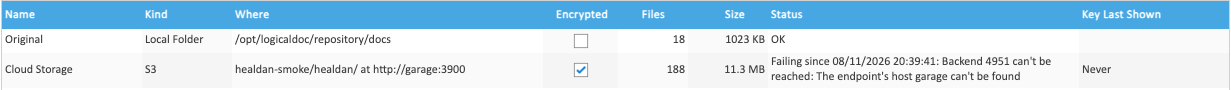
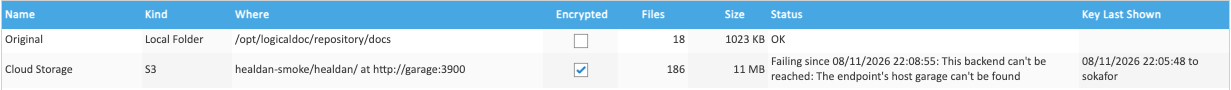
Docs: PR C's final review: local outages, Wasabi's sources, restic's owners, two pictures
- When a Backend Fails: a local folder that can't be read is an outage,
  as S3's is, with saves refused and reads failing at once with the
  outage message, which for a local backend doesn't say cloud.
- Cloud Storage: incomplete uploads cite Wasabi's Lifecycle page and its
  page on incomplete multipart uploads. The 7-day rule tidies the
  bucket; the plan's minimum storage duration still applies to the
  parts.
- Backup and Restore: restic, as root, restores the owners it recorded,
  so on another server the restored files may not be yours: chown them.
- Encryption and Recovery Keys: the add's showing is recorded too, and
  Test's key-file message is quoted as the tab now gives it, with no id.
- Tests: FakeS3 holds a put of one key until a test lets it go.
- storage-tab.png and backends-failing.png retaken from a fresh demo
  stack: Key Last Shown set at the add, and a failing status that names
  no id.

Changed region(s): [[0.71, 0.6222, 0.9878, 0.8889], [0.5865, 0.7111, 0.6174, 0.8222]]

diff --git a/site/content/admin/storage-backends/encryption-and-recovery-keys/index.md b/site/content/admin/storage-backends/encryption-and-recovery-keys/index.md
@@ -29,7 +29,8 @@ Healdan included. The key file is in the configuration volume's backups; keep th
 
 ## Saving the Recovery Key
 
-When you add an encrypted backend, its recovery key shows at once.
+When you add an encrypted backend, its recovery key shows at once. That showing is recorded, as every later one is
+(see [Showing It Again](#showing-it-again)).
 
 ![The Recovery Key of Cloud Storage window: it says Cloud Storage is encrypted and to save its recovery key now, away from the server, that losing both the key file and the recovery key loses its files for good, then shows the key in two lines of four-character groups with a copy icon, and asks for its last group, with Confirm and Later](recovery-key.png)
 
@@ -43,7 +44,8 @@ Until you confirm it, no Store can use the backend: the Stores' drop-down doesn'
 
 ## Showing It Again
 
-Select the backend and press **Show Recovery Key**. Every showing is recorded, with who and when:
+Select the backend and press **Show Recovery Key**. Every showing is recorded, with who and when, the one when the
+backend was added included:
 
 - **Key Last Shown,** on the tab, shows the latest.
 - **Key History,** from the backend's right-click menu, lists every showing and every entering of its recovery key,
@@ -53,8 +55,8 @@ The server's log records each showing too, but never the key.
 
 ## Putting a Lost Key File Back
 
-A backend whose key file is missing or isn't its own fails. Test says "The key file of storage backend … is missing",
-or that the key file "isn't the key it was made with", as after a restore from the wrong backup. To put it back:
+A backend whose key file is missing or isn't its own fails. Test says "The key file of this backend is missing", or
+that the key file "isn't the key it was made with", as after a restore from the wrong backup. To put it back:
 
 1. Select the backend, and press **Enter Recovery Key**.
 2. Type or paste the key in **Recovery Key**, and press **Enter**.

diff --git a/site/content/admin/storage-backends/when-a-backend-fails/index.md b/site/content/admin/storage-backends/when-a-backend-fails/index.md
@@ -5,7 +5,7 @@ weight: 7
 
 A backend is **failing** when Healdan can't use it. Its **Status**, on the **Storage** tab, says since when and why:
 
-![The Backends list with Original OK and Cloud Storage Failing since 08/11/2026 20:39:41: Backend 4951 can't be reached: The endpoint's host garage can't be found, after the demo stack's stand-in S3 server was stopped](backends-failing.png)
+![The Backends list with Original OK and Cloud Storage Failing since 08/11/2026 22:08:55: This backend can't be reached: The endpoint's host garage can't be found, after the demo stack's stand-in S3 server was stopped](backends-failing.png)
 
 | Why | What the status says, in part | What to do |
 |---|---|---|
@@ -55,6 +55,12 @@ A local backend, Original included, whose marker is missing refuses saves into i
 rather than writing files into an empty mount point where nobody would find them again. Its files can't be read
 either, as they aren't there. Mount the share again: the next check, within a minute, finds the backend, or press
 **Test**.
+
+A folder that can't be read at all, as when a share stops answering, is an outage, as an S3 service's is: its status
+says "can't be reached", and saves into its Stores are refused. Once the outage is found, reads of its files fail at
+once with a message that names the Store, as an S3 backend's does, but doesn't call it cloud storage, such as "This
+file is in Firm's storage, which can't be reached right now." When the share answers again, the next check, within a
+minute, finds the backend.
 
 ## The 24-Hour Alert
 

diff --git a/site/content/install/cloud-storage.md b/site/content/install/cloud-storage.md
@@ -38,10 +38,16 @@ more copies, each billed.
 ### Clear Incomplete Uploads After 7 Days
 
 Healdan uploads a file over 64 MB in parts, and abandons the upload cleanly when a part fails. An upload cut short by
-a crash or a lost connection leaves its parts in the bucket, billed, until they're cleared: Wasabi clears them after
-31 days by itself. To clear them sooner, open the bucket's settings, and on its **Lifecycle** tab create a rule for
-the whole bucket that deletes incomplete multipart uploads after 7 days. Wasabi applies it to uploads started after
-the rule.
+a crash or a lost connection leaves its parts in the bucket, and Wasabi deletes them after 31 days by itself. It bills
+them as stored for their first 30 days, then as deleted for the rest of the plan's minimum storage duration (see
+Wasabi's page on
+[incomplete multipart uploads](https://docs.wasabi.com/docs/how-does-wasabi-handle-incomplete-multi-part-uploads)).
+
+To clear them sooner, open the bucket's settings, and on its **Lifecycle** tab create a rule for the whole bucket that
+deletes incomplete multipart uploads after 7 days. Wasabi applies it to uploads started after the rule is set (see
+Wasabi's [Lifecycle](https://docs.wasabi.com/docs/lifecycle) page). The rule keeps the bucket tidy, but the plan's
+minimum storage duration still applies to the parts it deletes, as to any object deleted early (see
+[Wasabi's 90-Day Minimum](#wasabis-90-day-minimum)).
 
 ### Make a User for Healdan
 

diff --git a/site/content/admin/storage-backends/_index.md b/site/content/admin/storage-backends/_index.md
@@ -10,7 +10,7 @@ on the server's disk while Client Work goes to the cloud. Backends are set up on
 see. LogicalDOC calls a place for files a *store*, but in Healdan a Store is a top-level container for matters, so
 these pages say *backend*.
 
-![The Storage tab: Original, a local folder at /opt/logicaldoc/repository/docs holding 18 files, and Cloud Storage, an encrypted S3 backend on the demo stack's stand-in S3 server holding 188 files, both OK; the Stores list with Client Work on Cloud Storage and Firm and Templates on Original, nothing waiting or stuck; and the settings, a 30-day holding period, a 20 GB read cache and 4 parallel transfers](storage-tab.png)
+![The Storage tab: Original, a local folder at /opt/logicaldoc/repository/docs holding 18 files, and Cloud Storage, an encrypted S3 backend on the demo stack's stand-in S3 server holding 186 files, both OK, Cloud Storage's recovery key last shown to sokafor when it was added; the Stores list with Client Work on Cloud Storage and Firm and Templates on Original, nothing waiting or stuck; and the settings, a 30-day holding period, a 20 GB read cache and 4 parallel transfers](storage-tab.png)
 
 ## What a Backend Holds
 

diff --git a/site/content/install/backup-and-restore.md b/site/content/install/backup-and-restore.md
@@ -234,6 +234,9 @@ To restore, get the files back from the offsite copy, into the folder you run th
 docker run --rm --env-file restic.env -v "$PWD":/restore restic/restic:0.18.1 restore latest --target /restore
 ```
 
-They land in a `backup` folder beneath it, as `backup/logicaldoc-db.sql` and `backup/logicaldoc-files.tgz`. For an
+They land in a `backup` folder beneath it, as `backup/logicaldoc-db.sql` and `backup/logicaldoc-files.tgz`. restic
+runs as root in its container, so they come back with the owners they had when they were backed up, by user ID:
+`logicaldoc-files.tgz` belongs to root, as the backup made it, and the rest to the user who ran the backup. On another
+server that ID may be someone else's, or nobody's: make the files yours with `sudo chown -R "$USER" backup`. For an
 older copy, put its ID from `snapshots` in place of `latest`. Then restore them onto a fresh stack as above, from the
 `backup` folder.

diff --git a/site/content/developer/tests.md b/site/content/developer/tests.md
@@ -113,6 +113,9 @@ uploads in parts (create, upload a part, complete, abort).
 - **It records every request,** in `requests()`, and misbehaves on demand until `behave()`: it fails, stalls, delays,
   drops the connection, corrupts or cuts off a body, answers without a body or a length, or denies access. Close it
   in an `@After` method.
+- **It holds a put of one key until the test lets it go** (`holdPut()`, `release()`), then answers it under the rules
+  in force then. `StorageAdminTest` stops a backend's add or save at its marker this way, to check what other writes
+  do meanwhile.
 - **No test needs real DNS.** `FakeDns` answers the endpoint rule's address lookups from a map while it's open, so
   `EndpointsTest` checks which `http://` addresses count as private.
 
